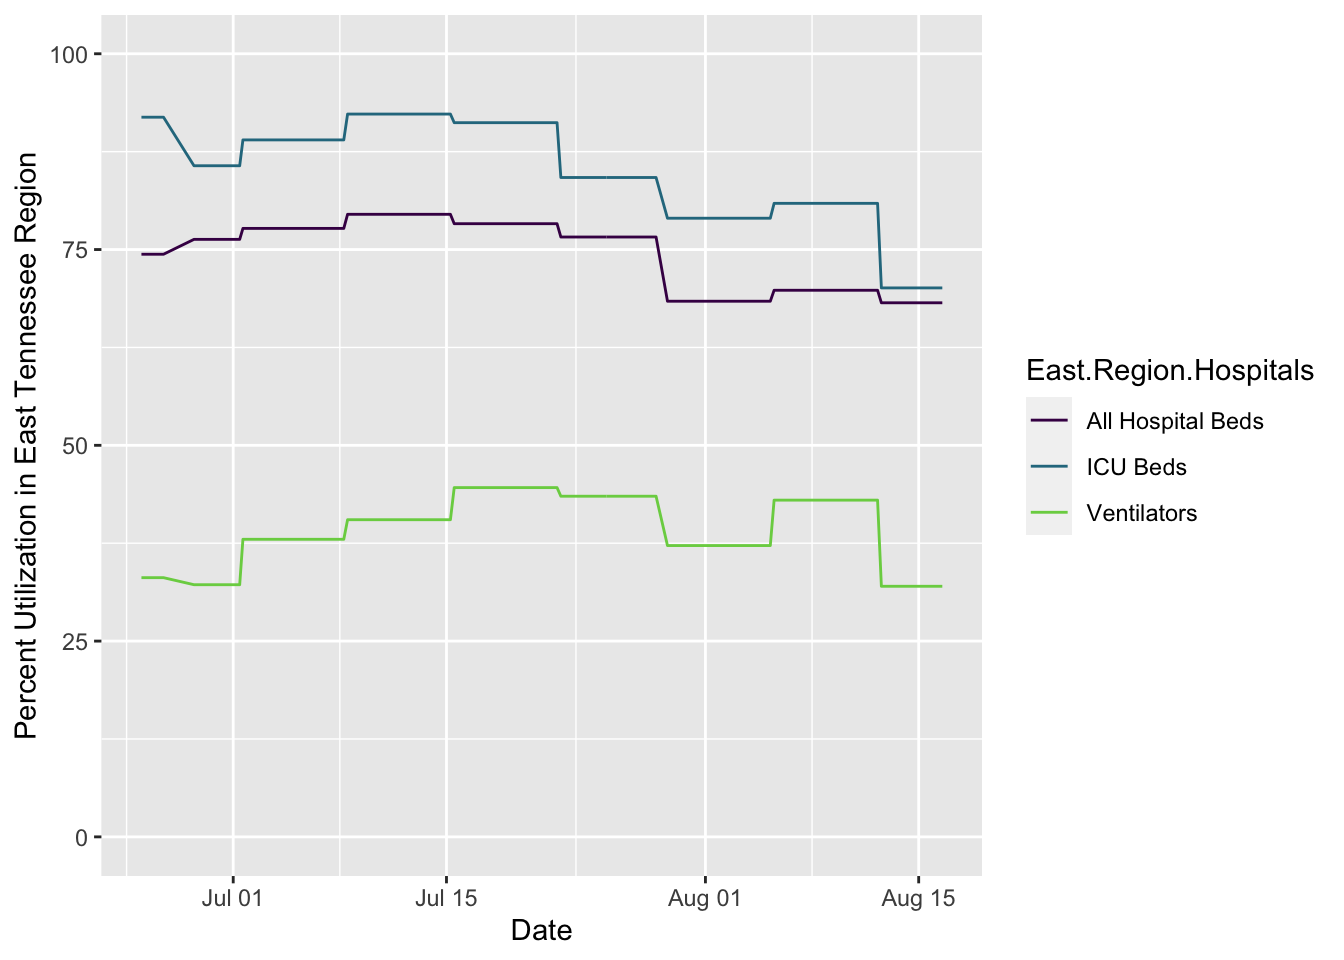
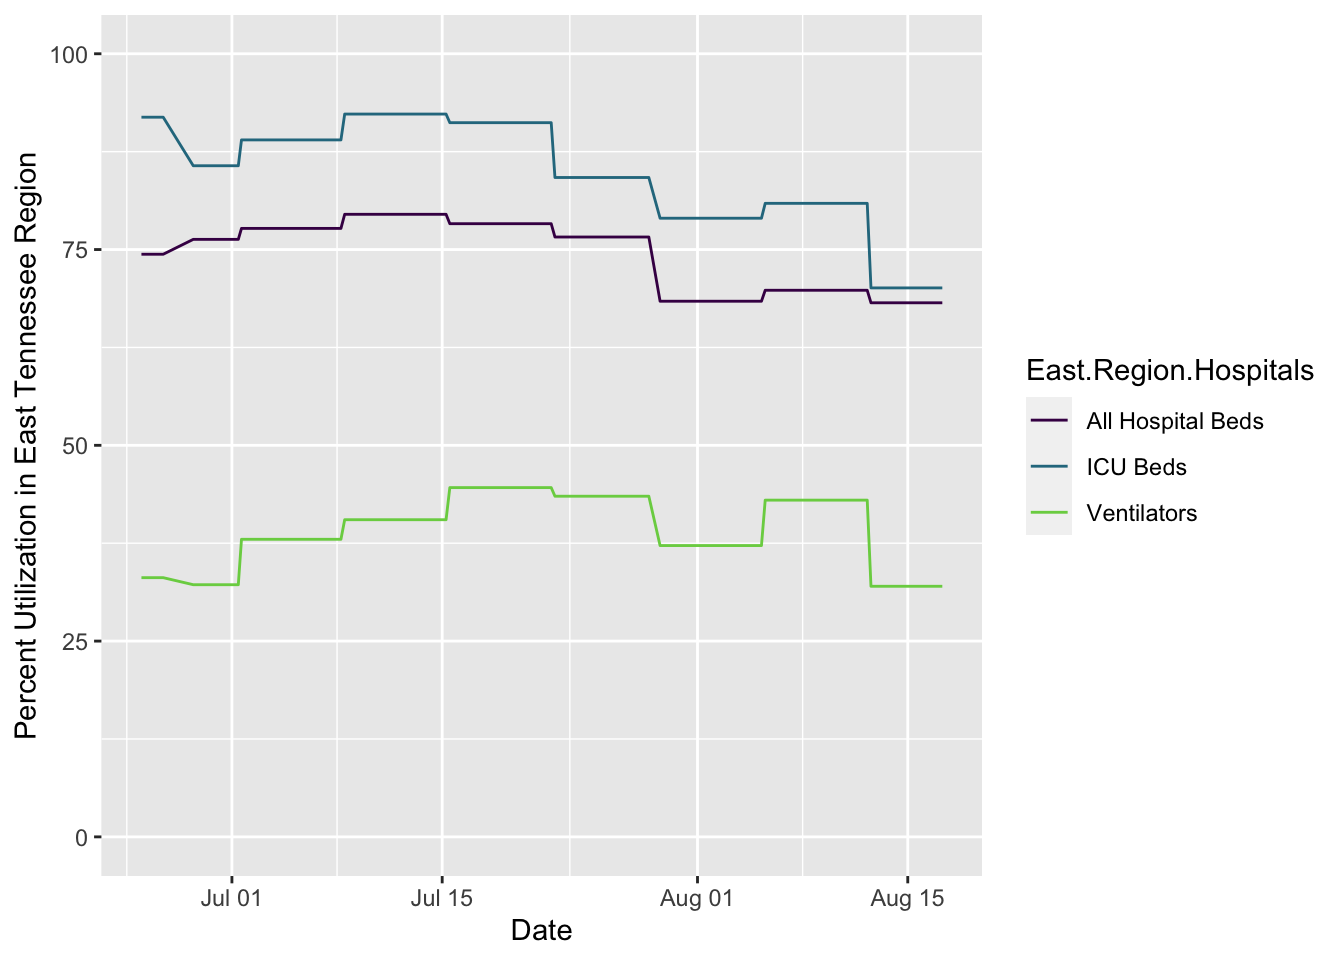
updating site

diff --git a/docs/covid.html b/docs/covid.html
@@ -423,7 +423,7 @@ $(document).ready(function () {
 <li>Info about cases at <a href="#ut">U. of Tennessee, Knoxville</a> (using public information only)</li>
 <li><a href="#webcams">Webcams</a> showing activity at local sites, though not quite at the resolution to point to mask usage or not</li>
 </ul>
-<p>The following plots are created in R using data from <a href="https://covid19datahub.io" class="uri">https://covid19datahub.io</a> (Guidotti, E., Ardia, D., (2020), “COVID-19 Data Hub”, Working paper, doi: 10.13140/RG.2.2.11649.81763), as well as information from Google and the <a href="https://www.tn.gov/health/cedep/ncov/data/downloadable-datasets.html">state of Tennessee dataset page</a> and plotting and analysis using the <code>forecast</code>, <code>ggplot2</code>, <code>reshape2</code>, and <code>dplyr</code> packages. Plots created on 2020-08-16 18:03:05. I use <code>ggplot2</code>’s <code>geom_smooth()</code> function for the smoothed regression plots with its default formula, which uses loess smoothing for this many points. This is not based on a model of disease spread or anything similarly sophisticated, just drawing a smooth curve to summarize noisy points (see <a href="https://www.itl.nist.gov/div898/handbook/pmd/section1/pmd144.htm">here</a> for more details).</p>
+<p>The following plots are created in R using data from <a href="https://covid19datahub.io" class="uri">https://covid19datahub.io</a> (Guidotti, E., Ardia, D., (2020), “COVID-19 Data Hub”, Working paper, doi: 10.13140/RG.2.2.11649.81763), as well as information from Google and the <a href="https://www.tn.gov/health/cedep/ncov/data/downloadable-datasets.html">state of Tennessee dataset page</a> and plotting and analysis using the <code>forecast</code>, <code>ggplot2</code>, <code>reshape2</code>, and <code>dplyr</code> packages. Plots created on 2020-08-17 08:20:46. I use <code>ggplot2</code>’s <code>geom_smooth()</code> function for the smoothed regression plots with its default formula, which uses loess smoothing for this many points. This is not based on a model of disease spread or anything similarly sophisticated, just drawing a smooth curve to summarize noisy points (see <a href="https://www.itl.nist.gov/div898/handbook/pmd/section1/pmd144.htm">here</a> for more details).</p>
 <h2 id="cases">
 Cases
 </h2>
@@ -459,7 +459,7 @@ Schooling
 <h2 id="hospitalization">
 Hospitalization
 </h2>
-<p>As of the last time the data were updated (likely 4 days ago), regional hospitals had 83 ICU beds available of 278 total, and 170 available ventilators out of 250 total. This is based on 19 acute care hospitals in the East TN region; based on the 14 counties these hospitals are in, these serve at least 1,235,720 people. When a line hits 100%, the local hospitals are theoretically full for that resource (for all patients, not just covid patients), though there is surge capacity on top of this. Note that these data are updated only weekly, so current conditions maybe be much better or worse than these plots show. Data on capacity from Knox County’s dashboard, data on hospitalizations and testing over time from the state data.</p>
+<p>As of the last time the data were updated (likely 5 days ago), regional hospitals had 83 ICU beds available of 278 total, and 170 available ventilators out of 250 total. This is based on 19 acute care hospitals in the East TN region; based on the 14 counties these hospitals are in, these serve at least 1,235,720 people. When a line hits 100%, the local hospitals are theoretically full for that resource (for all patients, not just covid patients), though there is surge capacity on top of this. Note that these data are updated only weekly, so current conditions maybe be much better or worse than these plots show. Data on capacity from Knox County’s dashboard, data on hospitalizations and testing over time from the state data.</p>
 <p><img src="covid_files/figure-html/hospitalcapacityplot-1.png" width="672" /></p>
 <p>Trends in hospitalization of covid patients over time. The vertical dotted line shows the last day with updated capacity information, when there were 83 ICU beds available (ignoring surge capacity) for people in the East Tennessee region.</p>
 <p><img src="covid_files/figure-html/plotsD-1.png" width="672" /></p>
